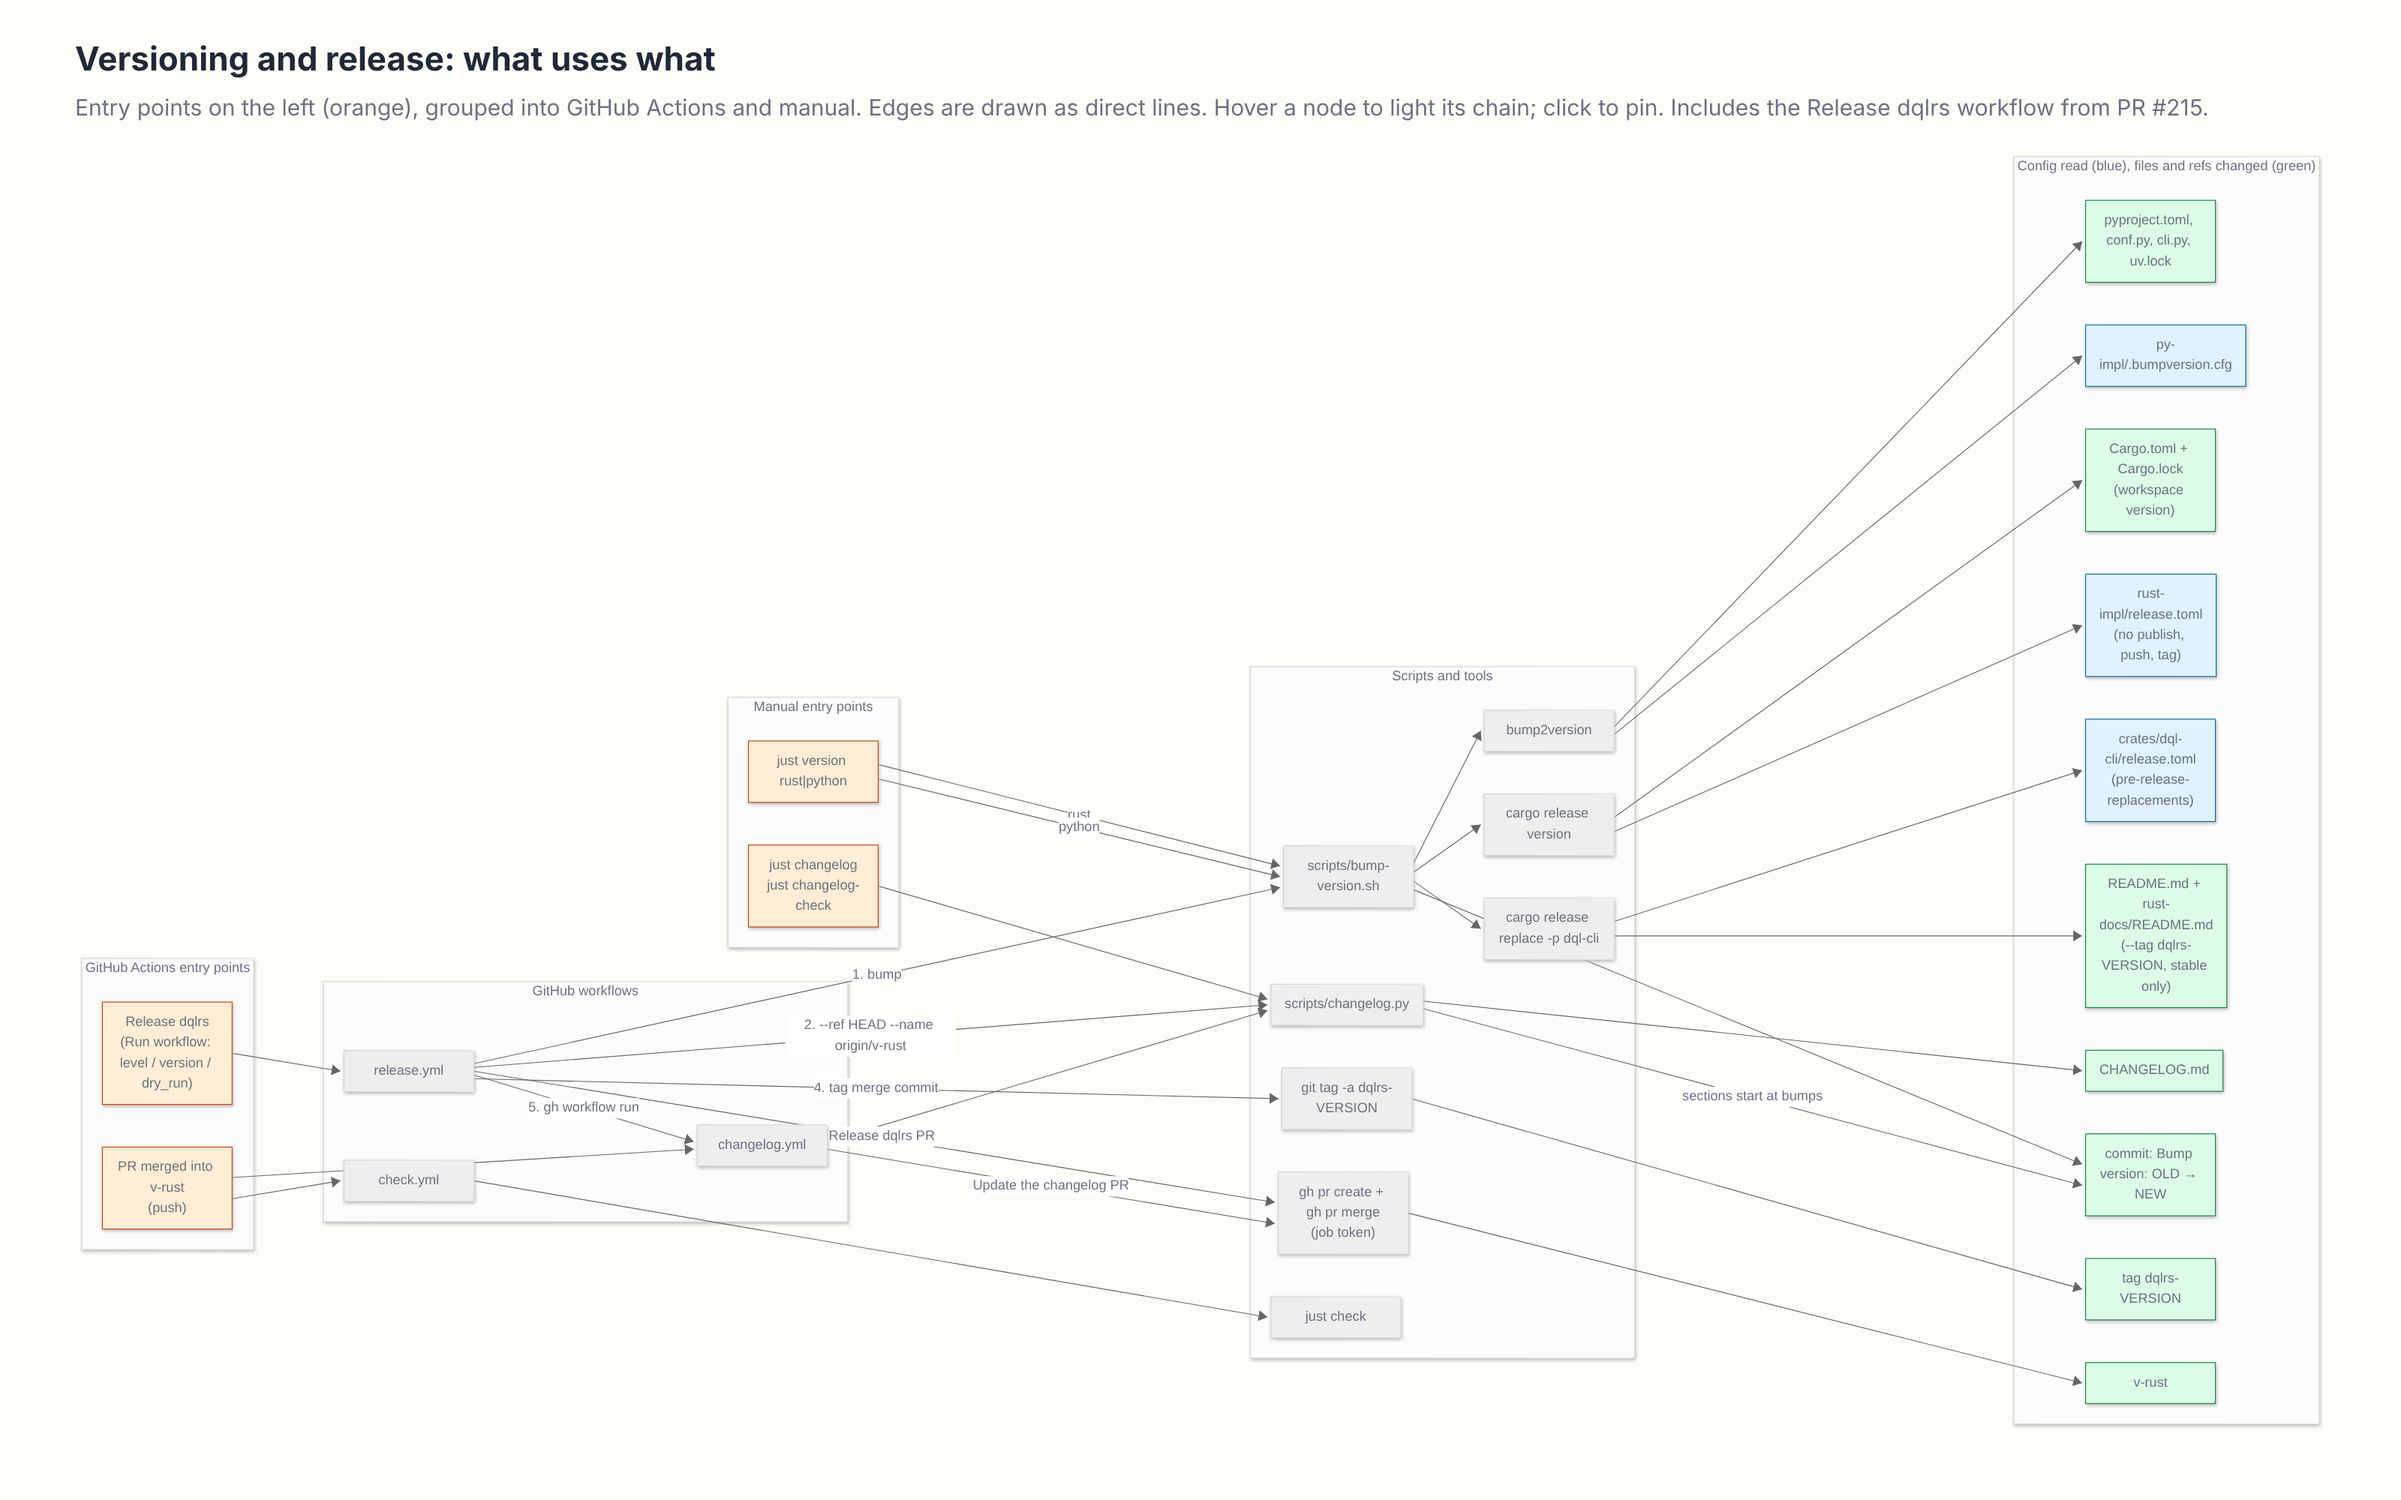
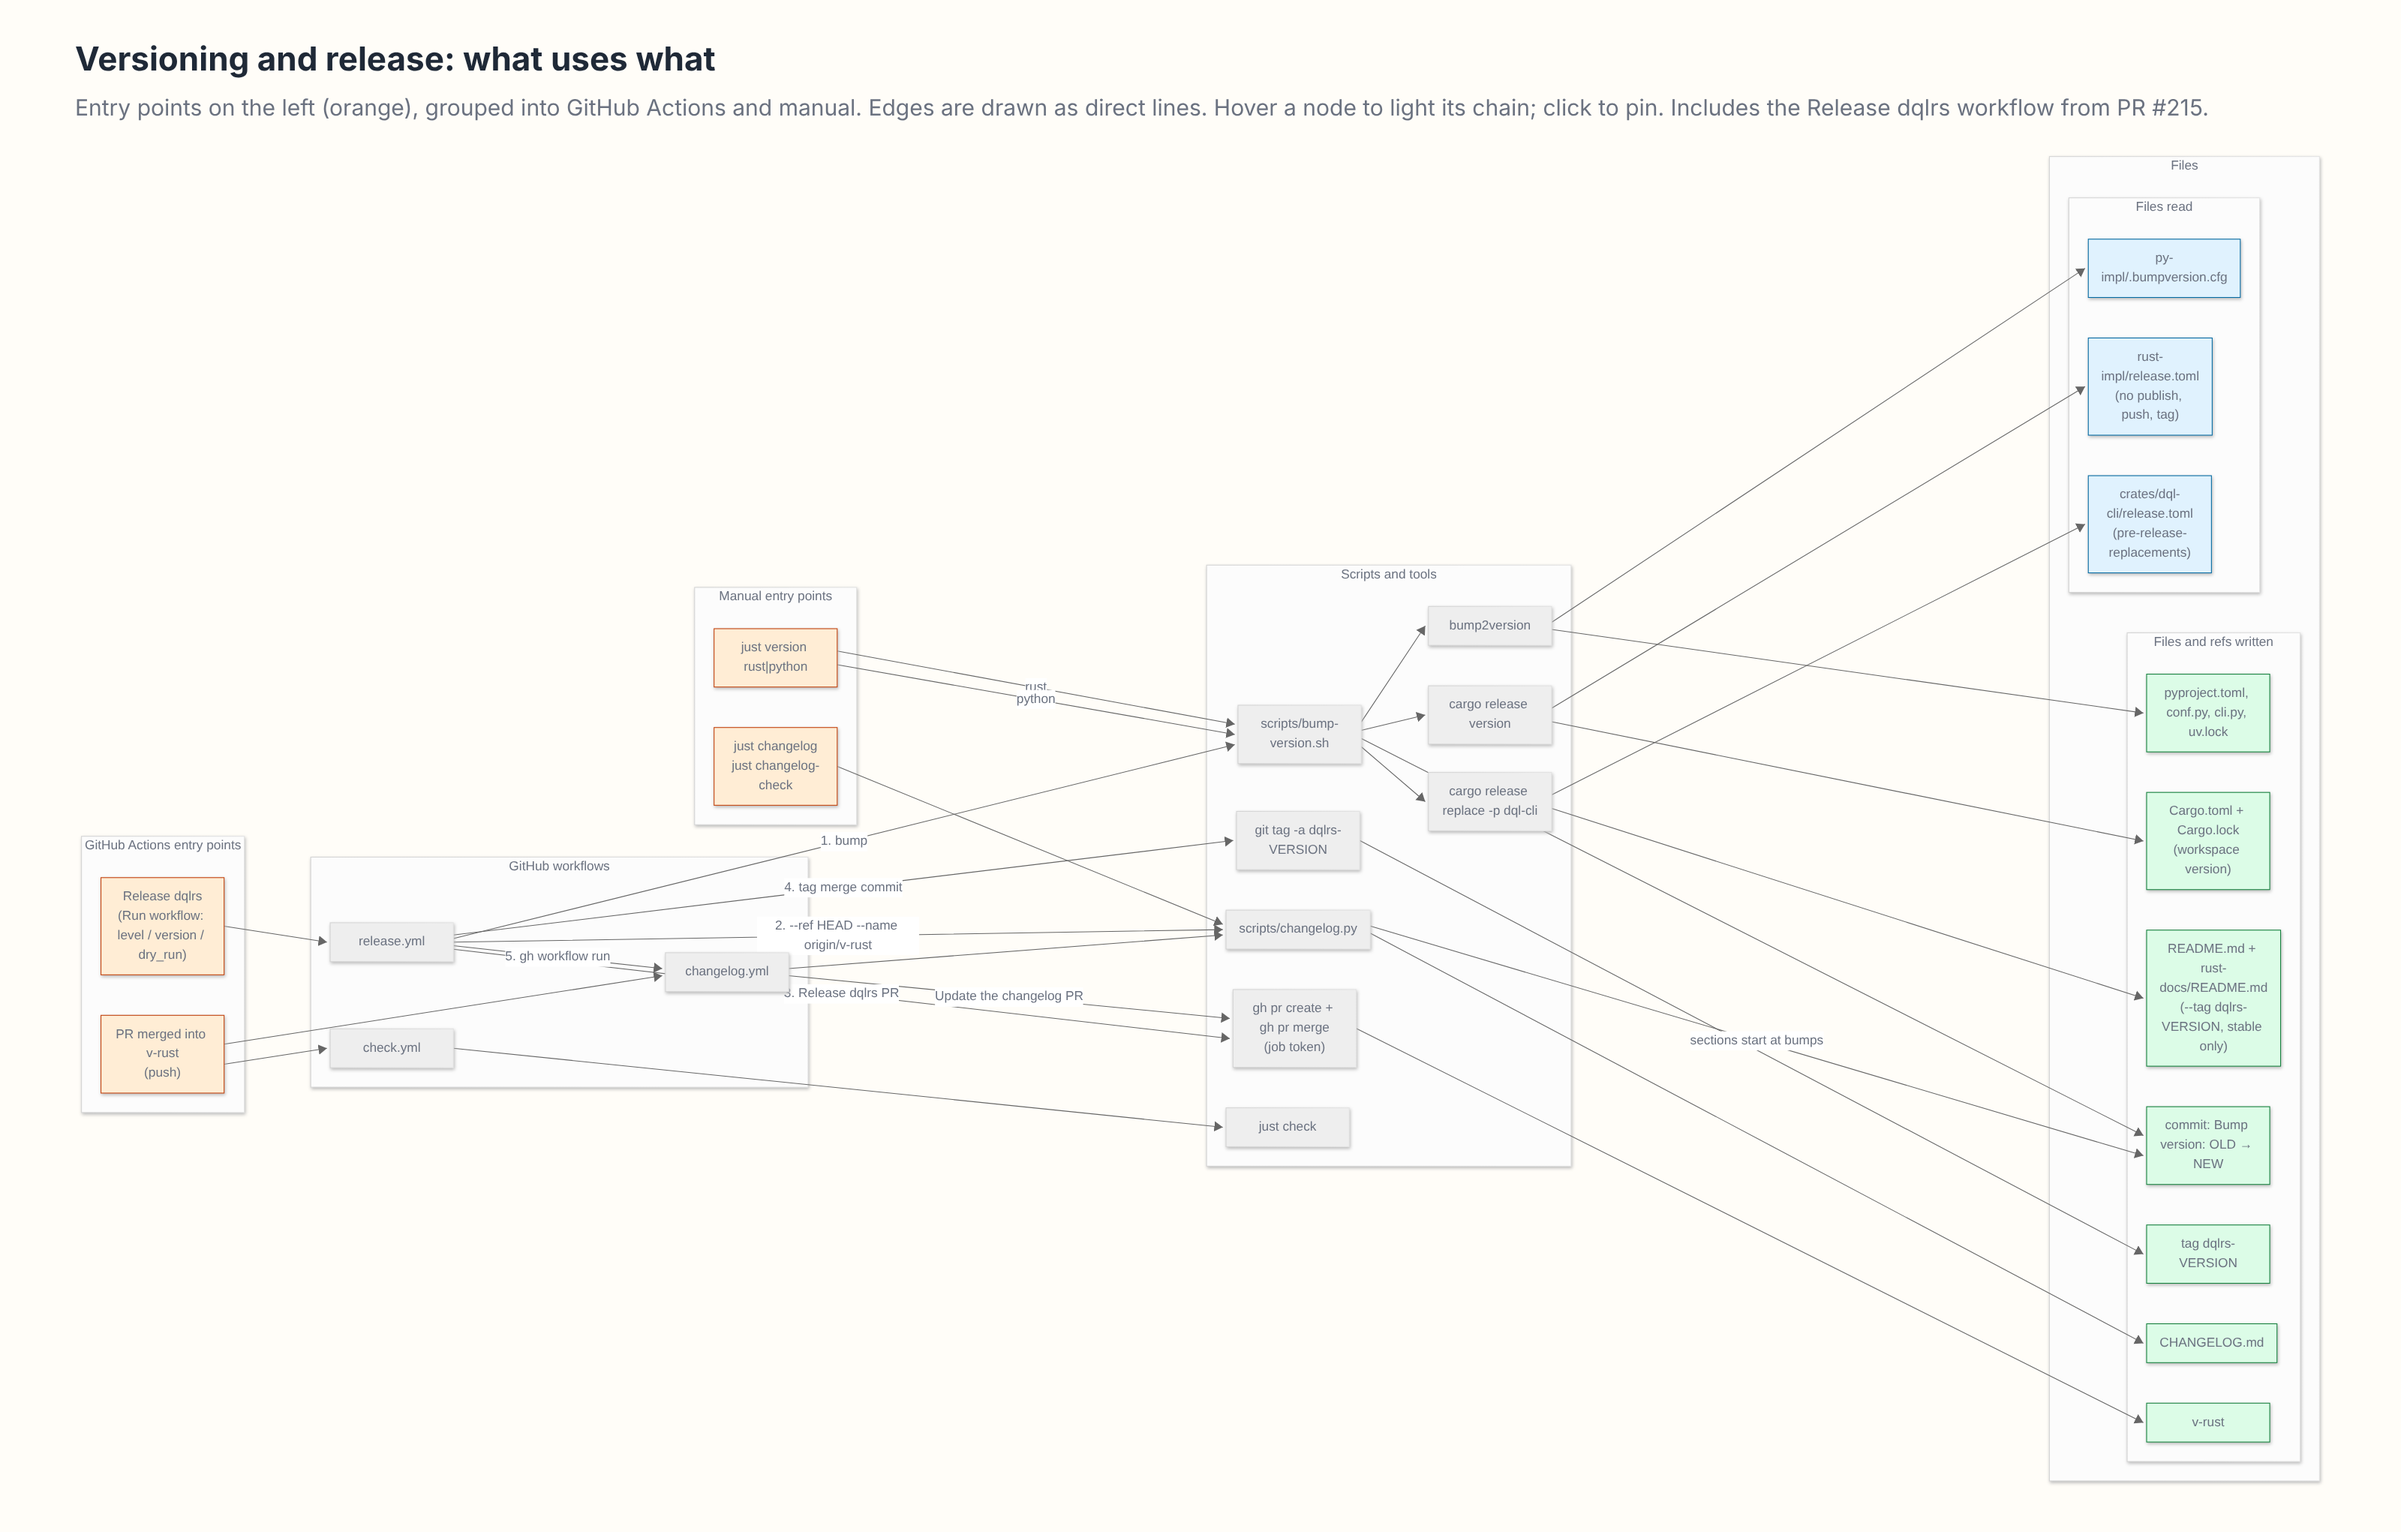
Group the release flow files into read and written
Claude-Session: https://claude.ai/code/session_01UxJe5gZ1uBbk1DRFLucxG1

diff --git a/screenshots/release-flow/release-flow.html b/screenshots/release-flow/release-flow.html
@@ -67,17 +67,22 @@ flowchart LR
     justCheck["just check"]
   end
 
-  subgraph outputs ["Config read (blue), files and refs changed (green)"]
-    wsRelease["rust-impl/release.toml<br/>(no publish, push, tag)"]
-    cliRelease["crates/dql-cli/release.toml<br/>(pre-release-replacements)"]
-    pyBumpCfg["py-impl/.bumpversion.cfg"]
-    cargoToml["Cargo.toml + Cargo.lock<br/>(workspace version)"]
-    readmes["README.md + rust-docs/README.md<br/>(--tag dqlrs-VERSION, stable only)"]
-    pyFiles["pyproject.toml, conf.py, cli.py, uv.lock"]
-    changelogMd["CHANGELOG.md"]
-    bumpCommit["commit: Bump version: OLD → NEW"]
-    vrust["v-rust"]
-    tagRef["tag dqlrs-VERSION"]
+  subgraph files [Files]
+    direction TB
+    subgraph readFiles [Files read]
+      wsRelease["rust-impl/release.toml<br/>(no publish, push, tag)"]
+      cliRelease["crates/dql-cli/release.toml<br/>(pre-release-replacements)"]
+      pyBumpCfg["py-impl/.bumpversion.cfg"]
+    end
+    subgraph writtenFiles [Files and refs written]
+      cargoToml["Cargo.toml + Cargo.lock<br/>(workspace version)"]
+      readmes["README.md + rust-docs/README.md<br/>(--tag dqlrs-VERSION, stable only)"]
+      pyFiles["pyproject.toml, conf.py, cli.py, uv.lock"]
+      changelogMd["CHANGELOG.md"]
+      bumpCommit["commit: Bump version: OLD → NEW"]
+      vrust["v-rust"]
+      tagRef["tag dqlrs-VERSION"]
+    end
   end
 
   relDispatch --> releaseYml
